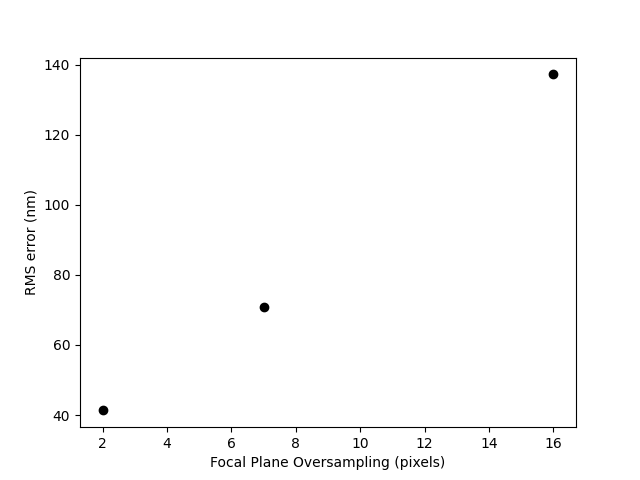
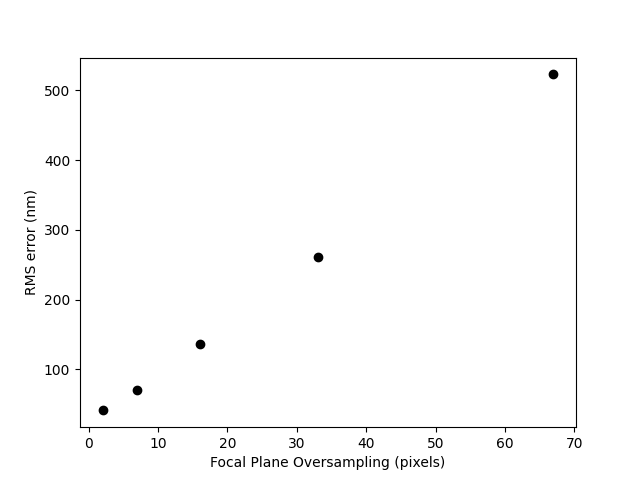
updates to multiprocessing

diff --git a/testing_number_points_error.py b/testing_number_points_error.py
@@ -3,11 +3,12 @@ import matplotlib.pyplot as plt
 import general_formulas as gf
 import propagation as prop
 import control_matrix as cm
+import tqdm
 
 # Define the parameters
 wavelength = 0.589
 num_pixels = 2**6# [2**i for i in range(4,10)]
-oversamp = [int(2**i/0.685) for i in range(1,4)]
+oversamp = [int(2**i/0.685) for i in range(1,8)]
 p = 0.685
 frac = 0.5
 
@@ -15,32 +16,31 @@ plt.figure()
 # generate the control matrix
 colours = ['black','red','green','blue','orange']
 print('Changing oversampling...')
-for j,amp in enumerate([1e-3]):
-    for num in oversamp:
-        num = int(num/p)
-        IM_inv = cm.generate_matrix(max_zerns=20,pup_width=num_pixels,
-        fp_oversamp=num,pinhole_size=p,wavelength=wavelength,ratio=frac,amp=1e-4,mode='Zernike')
 
-        # generate the interferogram 
-        cnms = np.zeros(20)
-        cnms[10] = 0.3
-        
-        intensity = prop.propagate(cnms,frac,p,max_zerns=20,pup_width=num_pixels,
-                                fp_oversamp=num,wavelength=wavelength,
-                                mode_type='Zernike')
-        intensity_no_aberrations = prop.propagate(np.zeros(20),frac,p,max_zerns=20,pup_width=num_pixels,
-                                fp_oversamp=num,wavelength=wavelength,
-                                mode_type='Zernike')
-        # retrieve the phase
-        phase = np.dot(IM_inv,intensity.ravel() - intensity_no_aberrations.ravel())
-        phase[0] = 0
+for num in tqdm.tqdm(oversamp):
+    num = int(num/p)
+    IM_inv = cm.generate_matrix(max_zerns=20,pup_width=num_pixels,
+    fp_oversamp=num,pinhole_size=p,wavelength=wavelength,ratio=frac,amp=1e-4,mode='Zernike')
 
-        rms = gf.calc_rms(phase,cnms) * 589
-        print(num,rms)
-        plt.plot([num],[rms],'o',color=colours[j],label='Amp = {}'.format(amp))
+    # generate the interferogram 
+    cnms = np.zeros(20)
+    cnms[10] = 0.3
+    
+    intensity = prop.propagate(cnms,frac,p,max_zerns=20,pup_width=num_pixels,
+                            fp_oversamp=num,wavelength=wavelength,
+                            mode_type='Zernike')
+    intensity_no_aberrations = prop.propagate(np.zeros(20),frac,p,max_zerns=20,pup_width=num_pixels,
+                            fp_oversamp=num,wavelength=wavelength,
+                            mode_type='Zernike')
+    # retrieve the phase
+    phase = np.dot(IM_inv,intensity.ravel() - intensity_no_aberrations.ravel())
+    phase[0] = 0
+
+    rms = gf.calc_rms(phase,cnms) * 589
+    plt.plot([num],[rms],'o',color=colours[0])
 plt.xlabel('Focal Plane Oversampling (pixels)')
 plt.ylabel('RMS error (nm)')
-plt.savefig('oversampling_error.png')
+plt.savefig('figures/oversampling_error_control_matrix.png')
 
     
 # Define the parameters
@@ -54,29 +54,29 @@ plt.figure()
 print('Changing number of points...')
 # generate the control matrix
 colours = ['black','red','green','blue','orange']
-for j,amp in enumerate([1e-3]):
-    for num in num_pixels:
-        IM_inv = cm.generate_matrix(max_zerns=20,pup_width=num,
-        fp_oversamp=oversamp,pinhole_size=p,wavelength=wavelength,ratio=frac,amp=1e-4,mode='Zernike')
-        
-        # generate the interferogram 
-        cnms = np.zeros(20)
-        cnms[10] = 0.3
-        intensity = prop.propagate(cnms,frac,p,max_zerns=20,pup_width=num,
-                                fp_oversamp=oversamp,wavelength=wavelength,
-                                mode_type='Zernike')
-        
-        intensity_no_aberrations = prop.propagate(np.zeros(20),frac,p,max_zerns=20,pup_width=num,
-                                fp_oversamp=oversamp,wavelength=wavelength,
-                                mode_type='Zernike')
-        # retrieve the phase
-        phase = np.dot(IM_inv,intensity.ravel() - intensity_no_aberrations.ravel())
-        phase[0] = 0
 
-        rms = gf.calc_rms(phase,cnms) * 589
-        print(num,rms)
-        plt.plot([num],[rms],'o',color=colours[j],label='Amp = {}'.format(amp))
+for num in tqdm.tqdm(num_pixels):
+    IM_inv = cm.generate_matrix(max_zerns=20,pup_width=num,
+    fp_oversamp=oversamp,pinhole_size=p,wavelength=wavelength,ratio=frac,amp=1e-4,mode='Zernike')
+    
+    # generate the interferogram 
+    cnms = np.zeros(20)
+    cnms[10] = 0.3
+    intensity = prop.propagate(cnms,frac,p,max_zerns=20,pup_width=num,
+                            fp_oversamp=oversamp,wavelength=wavelength,
+                            mode_type='Zernike')
+    
+    intensity_no_aberrations = prop.propagate(np.zeros(20),frac,p,max_zerns=20,pup_width=num,
+                            fp_oversamp=oversamp,wavelength=wavelength,
+                            mode_type='Zernike')
+    # retrieve the phase
+    phase = np.dot(IM_inv,intensity.ravel() - intensity_no_aberrations.ravel())
+    phase[0] = 0
+
+    rms = gf.calc_rms(phase,cnms) * 589
+
+    plt.plot([num],[rms],'o',color=colours[0])
 plt.xlabel('Pupil Width (pixels)')
 plt.ylabel('RMS error (nm)')
-plt.savefig('pupil_width_error.png')
+plt.savefig('figures/pupil_width_error_control_matrix.png')
 plt.show()

diff --git a/iterative_solver.py b/iterative_solver.py
@@ -61,8 +61,8 @@ if __name__ == '__main__':
     max_zerns = 20
     mode_type = 'Zernike'
     # generate the rms curves for varing Zernike amplitudes
-    if True:
-        with Pool(multiprocessing.cpu_count()//2) as mp:
+    if False:
+        with Pool(10) as mp:
             # calculate the rms with tqdm to show progress
             rms = mp.map(rms_calculation, list(range(max_zerns)))
 
@@ -77,43 +77,41 @@ if __name__ == '__main__':
         plt.show()
 
     # look at how the number of points in the fit affects the rms
-    if False:
+    if True:
         # define the parameters
         wavelength = 0.589
         pinhole_size = 0.685
-        pup_width = 2**9
+        pup_width = 2**6
         fp_oversamp = int(2**3/pinhole_size)
         frac = 0.5
         max_zerns = 20
         mode_type = 'Zernike'
         print('Changing number of points...')
         plt.figure(figsize=(10,10))
-        for pup in [2**i for i in range(3,12)]:
+        for pup in tqdm.tqdm([2**i for i in range(3,12)]):
             cnms = np.zeros(max_zerns)
             cnms[10] = 0.3
             intensity = prop.propagate(cnms, frac, pinhole_size, max_zerns,wavelength,pup,fp_oversamp,mode_type)
             phase  = iterative_solver(intensity, frac, pinhole_size, max_zerns,wavelength,pup,fp_oversamp,mode_type)
             rms = gf.calc_rms(phase,cnms)*589
-            print(pup,np.round(rms,2))
             plt.plot([pup],[rms], label='RMS', marker='o', color='black')
         plt.title('RMS vs Pupil Size')
         plt.xlabel('Pupil Size (pixels)')
         plt.ylabel('RMS (nm)')
-        plt.savefig('rms_vs_pupil_size.png')
+        plt.savefig('figures/pupil_width_error_iterative_method.png')
         print('Changing oversampling rate...')
         plt.figure(figsize=(10,10))
-        for pup in [2**i for i in range(4,8)]:
+        for pup in tqdm.tqdm([2**i for i in range(4,8)]):
             cnms = np.zeros(max_zerns)
             cnms[10] = 0.3
             intensity = prop.propagate(cnms, frac, pinhole_size, max_zerns,wavelength,pup_width,int(pup/pinhole_size),mode_type)
             phase  = iterative_solver(intensity, frac, pinhole_size, max_zerns,wavelength,pup_width,int(pup/pinhole_size),mode_type)
             rms = gf.calc_rms(phase,cnms)*589
-            print(pup,np.round(rms,2))
             plt.plot([pup],[rms], label='RMS', marker='o', color='black')
         plt.title('RMS vs Oversampling')
         plt.xlabel('Oversampling')
         plt.ylabel('RMS (nm)')
-        plt.savefig('rms_vs_oversampling_size.png')
+        plt.savefig('figures/oversampling_error_iterative_method.png')
         plt.show()
 
     

diff --git a/phase_retrieval_real_data.py b/phase_retrieval_real_data.py
@@ -23,9 +23,9 @@ OL_KL = pyfits.getdata(path+'turbulence_data/turbMod_down_07arcsec_50x5000.fits'
 # for each time iteration, run the phase retrieval
 # define the parameters
 pinhole_size = 0.685 #0.5
-pup_width = 2**6
+pup_width = 2**9
 # want the same sampling of the pinhole for all cases
-fp_oversamp = int(2**2/pinhole_size)
+fp_oversamp = int(2**3/pinhole_size)
 frac =  0.5 #0.2
 method = 'KL'
 
@@ -41,13 +41,13 @@ if True:
         # now find the phase
         phase = it.iterative_solver(intensity,frac,pinhole_size,max_zerns=np.shape(OL_KL)[0],pup_width=pup_width,fp_oversamp=fp_oversamp,wavelength=0.589,mode_type=method)
 
-        print(phase,cnms)
         rms = calc_rms(phase,cnms)*589
 
         return rms,mag
 
-    with Pool(5) as p:
-        vals = p.map(rms_calcs,OL_KL.T[0:5])
+    
+    with Pool(10) as p:
+        vals = p.map(rms_calcs,OL_KL.T)
     rms, mag = zip(*vals)
     print(len(rms),len(mag))
 
@@ -64,7 +64,7 @@ if True:
     ax2.plot([],[],'.k',label='RMS')
     ax2.plot([],[],'.r',label='Turbulence Magnitude')
     ax2.legend()
-    plt.savefig('figures/rms_mag_{}.png'.format(pinhole_size))
+    plt.savefig('figures/rms_mag_{}_iterative.png'.format(pinhole_size))
     plt.close()
 
 # generate the control matrix
@@ -109,7 +109,7 @@ def rms_calcs(error):
 
     return rms,mag
 
-with Pool(multiprocessing.cpu_count()//4) as p:
+with Pool(10) as p:
     vals = p.map(rms_calcs,OL_KL.T)
 rms, mag = zip(*vals)
 
@@ -126,7 +126,7 @@ plt.title('Pinhole Size = {}'.format(pinhole_size))
 ax2.plot([],[],'.k',label='RMS')
 ax2.plot([],[],'.r',label='Turbulence Magnitude')
 ax2.legend()
-plt.savefig('rms_mag_{}.png'.format(pinhole_size))
+plt.savefig('figures/rms_mag_{}.png'.format(pinhole_size))
 plt.show()
 
 

diff --git a/rms_phase_diff.py b/rms_phase_diff.py
@@ -11,6 +11,7 @@ from multiprocessing import Pool
 from general_formulas import *
 import matplotlib.animation as animation
 import iterative_solver as im
+import tqdm
 
 def RMSE_all_modes(pup_width, fp_oversamp,pinhole_size):
     """
@@ -217,7 +218,7 @@ def response_curve(pup_width, fp_oversamp,pinhole_size,show = False):
     #iterate over modes and plot in subplot grid
     fig,axs = plt.subplots(4,4,figsize=(6,6))
     # generate a line for each of the axes
-    for modes in range(16):
+    for modes in tqdm.tqdm(range(16)):
         Cs = np.zeros(len(amps),dtype=np.float32)
         cnmss = np.zeros(len(amps),dtype=np.float32)
         for j,amp in enumerate(amps):
@@ -275,7 +276,7 @@ def response_curve_iterative(pup_width, fp_oversamp,pinhole_size,show = False):
     #iterate over modes and plot in subplot grid
     fig,axs = plt.subplots(4,4,figsize=(6,6))
     # generate a line for each of the axes
-    for modes in range(16):
+    for modes in tqdm.tqdm(range(16)):
         Cs = np.zeros(len(amps),dtype=np.float32)
         cnmss = np.zeros(len(amps),dtype=np.float32)
         for j,amp in enumerate(amps):
